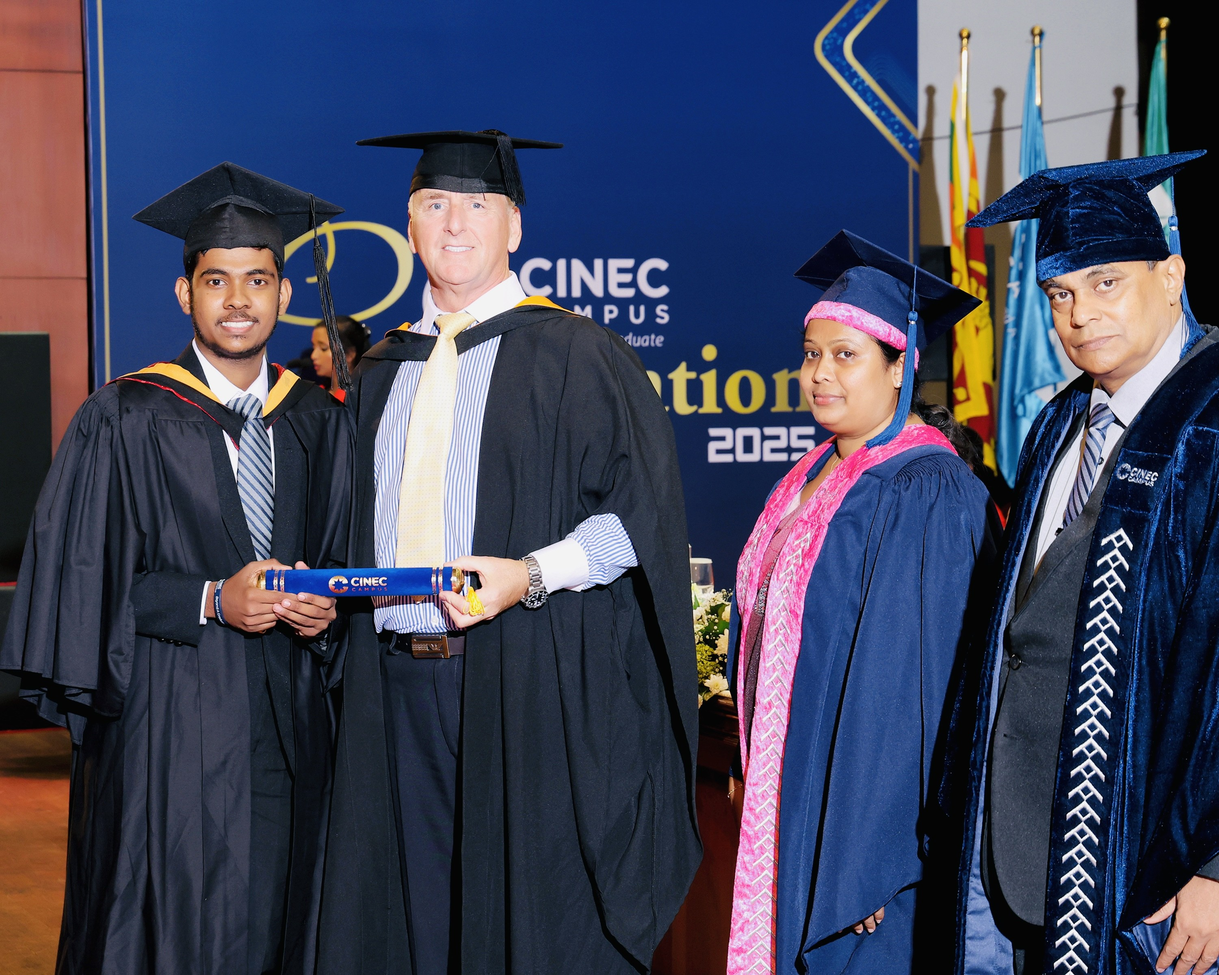
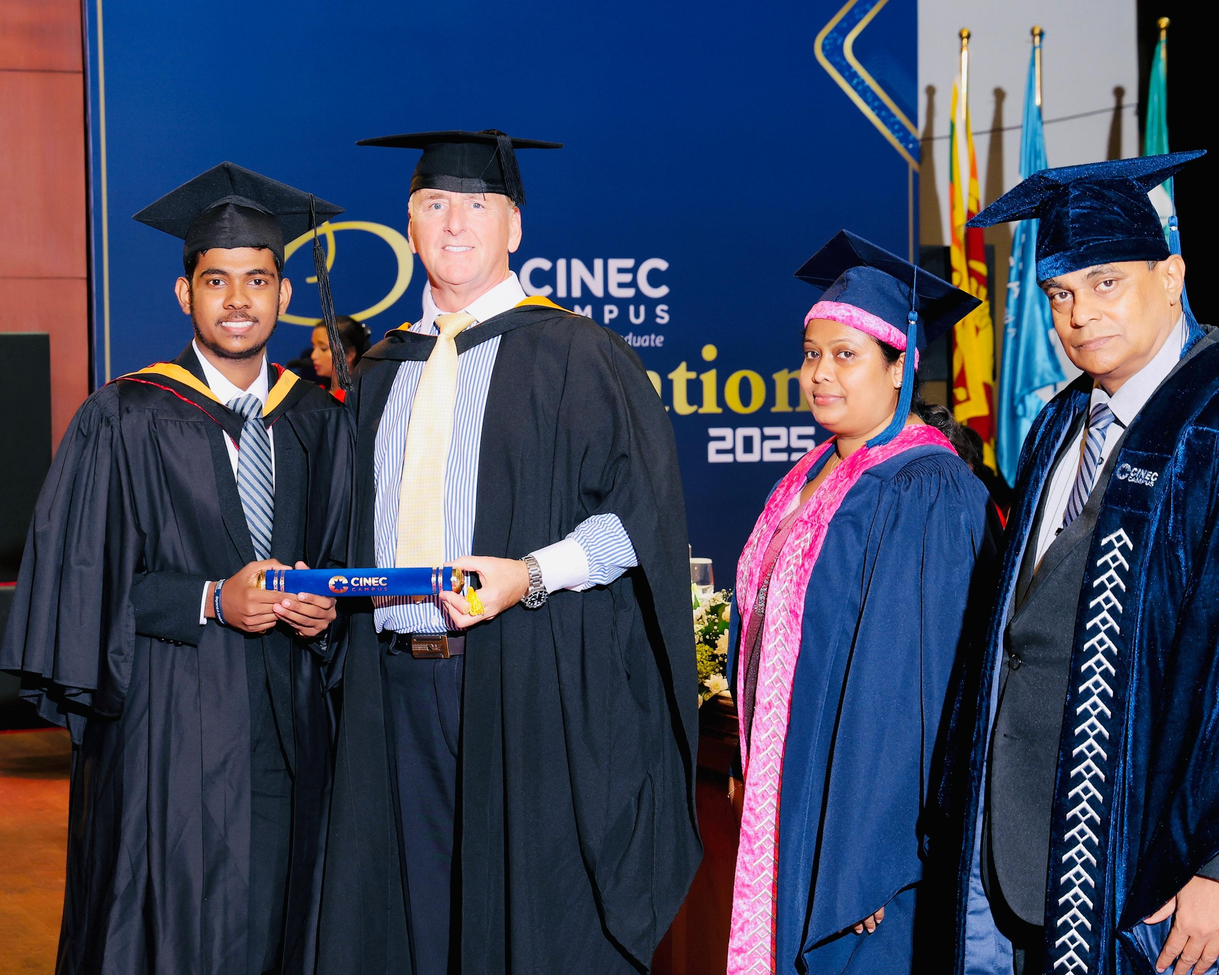
ImageUpdatedV2

diff --git a/about.html b/about.html
@@ -67,7 +67,7 @@
                 </div>
                 <div class="col-lg-5 order-1 order-lg-2 text-center" data-aos="zoom-in" data-aos-duration="1500">
                     <div class="profile-frame">
-                        <img src="assets/img/MilanJayasekara.jpg" alt="Milan Jayasekara" class="img-fluid rounded-3 shadow-lg border border-secondary">
+                        <img src="assets/img/MilanPic.jpg" alt="Milan Jayasekara" class="img-fluid rounded-3 shadow-lg border border-secondary">
                     </div>
                 </div>
             </div>
